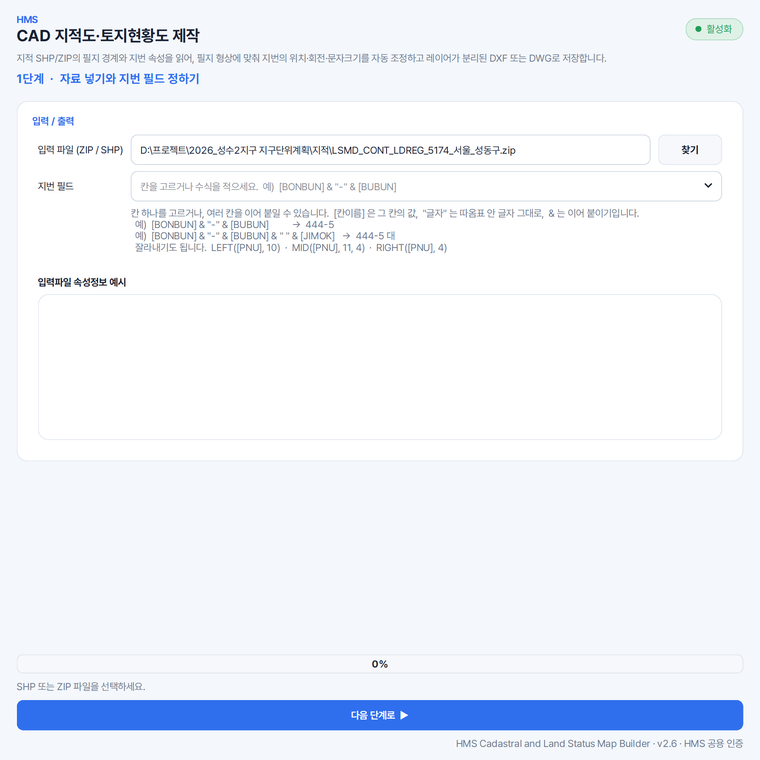
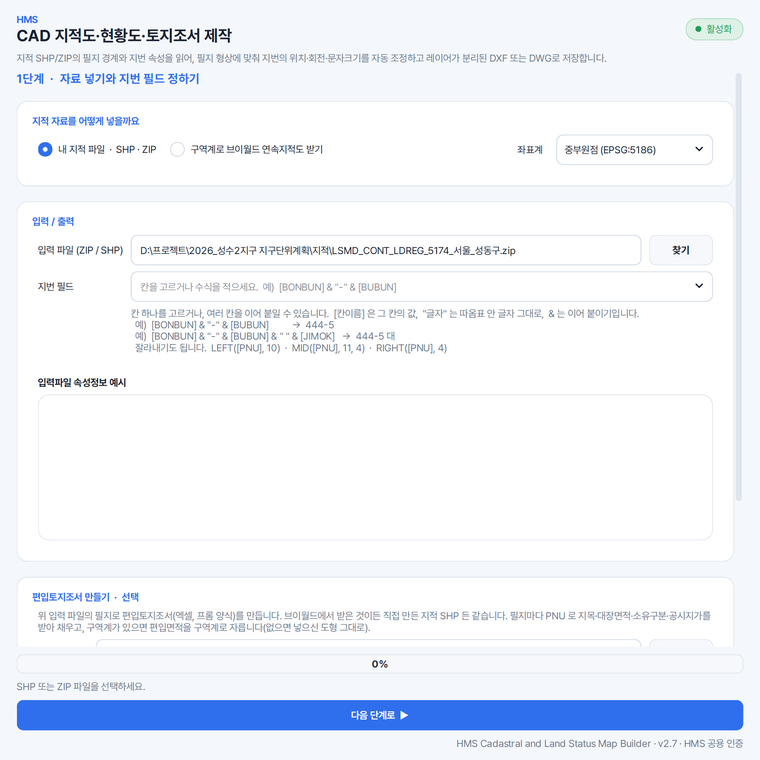
지적도 화면 2.7 배치
소스 저장소의 docs\홈페이지\hms-home.html 을 그대로 옮겼습니다.
scripts\publish-home.ps1 이 만든 커밋입니다.

diff --git a/index.html b/index.html
@@ -693,7 +693,7 @@
     /* 화면 절. 왼쪽 목록에서 고르면 오른쪽에 그 솔루션의 화면이 뜬다. 화면이 여럿이면
        화살표·점으로 넘기고, 그림을 누르면 크게 뜬다(거기서도 넘길 수 있다). */
     (function () {
-      var SHOTS = [{"key": "center", "name": "Solution Center", "sub": "설치 · 인증 · 업데이트", "shots": [{"src": "shots/center.png?v=b427e241", "cap": "설치 · 인증 · 업데이트 · 실행을 한곳에서. 여기서 모든 솔루션을 엽니다."}]}, {"key": "vworld", "name": "브이월드 공간정보 내려받기", "sub": "SHP 한 번에 받기", "shots": [{"src": "shots/vworld.png?v=789ac4b8", "cap": "지역과 주제도를 담고 [받기] 한 번. 시·군·구 하나가 20~30초."}]}, {"key": "geocoder", "name": "지오코딩 (지번·주소·좌표 변환)", "sub": "주소 · PNU · 좌표 채우기", "shots": [{"src": "shots/geocoder.png?v=95ce4d5b", "cap": "엑셀이나 SHP 를 넣으면 주소 · PNU · 좌표를 채우고 필지 SHP 와 DXF 지적도까지."}]}, {"key": "cadastral", "name": "CAD 지적도·현황도·토지조서 제작", "sub": "1단계 · 2단계 · 조서", "shots": [{"src": "shots/cadastral_1.png?v=c61a964e", "cap": "1단계 · 지적 SHP 를 넣거나 구역계로 브이월드 연속지적도를 받습니다. 편입토지조서도 여기서."}, {"src": "shots/cadastral_2.png?v=23944f81", "cap": "2단계 · 지적도를 어떻게 그릴지 정합니다. 지번 크기·회전은 필지에 맞춰 자동."}, {"src": "shots/cadastral_3.png?v=a795e90a", "cap": "2단계 · 토지현황도. 편입토지조서를 붙여 속성으로 색을 입힙니다."}]}, {"key": "building", "name": "건축물대장 조서 작성", "sub": "PDF → 엑셀", "shots": [{"src": "shots/building.png?v=1f4c3b09", "cap": "대장 PDF 를 끌어다 놓고 실행하면 엑셀 조서로."}]}, {"key": "dxf", "name": "CAD 도면 병합", "sub": "도곽 합치기", "shots": [{"src": "shots/dxf.png?v=11aa8bde", "cap": "도곽으로 나뉜 수치지형도를 한 장으로."}]}, {"key": "thematic", "name": "주제도 SHP 속성 코드 입력", "sub": "코드 · 코드명 채우기", "shots": [{"src": "shots/thematic.png?v=740e54d9", "cap": "연속주제도에 코드·코드명을 채워 넣습니다."}]}, {"key": "realty", "name": "부동산 공시가격 조회 · 수집", "sub": "세 가지 기능", "shots": [{"src": "shots/realty_1.png?v=0473cf8b", "cap": "지번 하나의 최근 3년 개별공시지가를 바로 봅니다."}, {"src": "shots/realty_2.png?v=1b9be108", "cap": "편입토지조서에 3년치 공시지가를 채웁니다."}, {"src": "shots/realty_3.png?v=6984f53f", "cap": "공동주택 한 단지의 세대별 가격을 전부 받습니다."}]}, {"key": "ppt", "name": "PPT 이미지 맞춰 넣기", "sub": "슬라이드마다 자동", "shots": [{"src": "shots/ppt.png?v=dd03eca2", "cap": "기준 그림 하나에 맞춰 이미지를 슬라이드마다."}]}];
+      var SHOTS = [{"key": "center", "name": "Solution Center", "sub": "설치 · 인증 · 업데이트", "shots": [{"src": "shots/center.png?v=b427e241", "cap": "설치 · 인증 · 업데이트 · 실행을 한곳에서. 여기서 모든 솔루션을 엽니다."}]}, {"key": "vworld", "name": "브이월드 공간정보 내려받기", "sub": "SHP 한 번에 받기", "shots": [{"src": "shots/vworld.png?v=789ac4b8", "cap": "지역과 주제도를 담고 [받기] 한 번. 시·군·구 하나가 20~30초."}]}, {"key": "geocoder", "name": "지오코딩 (지번·주소·좌표 변환)", "sub": "주소 · PNU · 좌표 채우기", "shots": [{"src": "shots/geocoder.png?v=95ce4d5b", "cap": "엑셀이나 SHP 를 넣으면 주소 · PNU · 좌표를 채우고 필지 SHP 와 DXF 지적도까지."}]}, {"key": "cadastral", "name": "CAD 지적도·현황도·토지조서 제작", "sub": "1단계 · 2단계 · 조서", "shots": [{"src": "shots/cadastral_1.png?v=d9c25673", "cap": "1단계 · 지적 SHP 를 넣거나 구역계로 브이월드 연속지적도를 받습니다. 편입토지조서도 여기서."}, {"src": "shots/cadastral_2.png?v=eb7b7e80", "cap": "2단계 · 지적도를 어떻게 그릴지 정합니다. 지번 크기·회전은 필지에 맞춰 자동."}, {"src": "shots/cadastral_3.png?v=2846747f", "cap": "2단계 · 토지현황도. 편입토지조서를 붙여 속성으로 색을 입힙니다."}]}, {"key": "building", "name": "건축물대장 조서 작성", "sub": "PDF → 엑셀", "shots": [{"src": "shots/building.png?v=1f4c3b09", "cap": "대장 PDF 를 끌어다 놓고 실행하면 엑셀 조서로."}]}, {"key": "dxf", "name": "CAD 도면 병합", "sub": "도곽 합치기", "shots": [{"src": "shots/dxf.png?v=11aa8bde", "cap": "도곽으로 나뉜 수치지형도를 한 장으로."}]}, {"key": "thematic", "name": "주제도 SHP 속성 코드 입력", "sub": "코드 · 코드명 채우기", "shots": [{"src": "shots/thematic.png?v=740e54d9", "cap": "연속주제도에 코드·코드명을 채워 넣습니다."}]}, {"key": "realty", "name": "부동산 공시가격 조회 · 수집", "sub": "세 가지 기능", "shots": [{"src": "shots/realty_1.png?v=0473cf8b", "cap": "지번 하나의 최근 3년 개별공시지가를 바로 봅니다."}, {"src": "shots/realty_2.png?v=1b9be108", "cap": "편입토지조서에 3년치 공시지가를 채웁니다."}, {"src": "shots/realty_3.png?v=6984f53f", "cap": "공동주택 한 단지의 세대별 가격을 전부 받습니다."}]}, {"key": "ppt", "name": "PPT 이미지 맞춰 넣기", "sub": "슬라이드마다 자동", "shots": [{"src": "shots/ppt.png?v=dd03eca2", "cap": "기준 그림 하나에 맞춰 이미지를 슬라이드마다."}]}];
       var picker = document.getElementById("picker");
       var img = document.getElementById("stage-img"), name = document.getElementById("stage-name");
       var cap = document.getElementById("stage-cap"), dots = document.getElementById("stage-dots");
